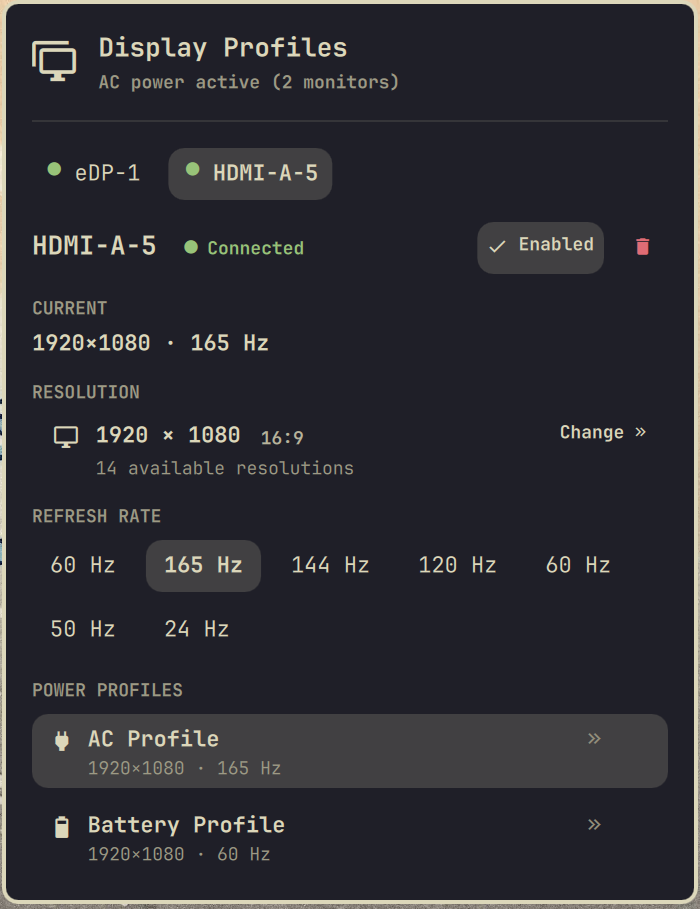
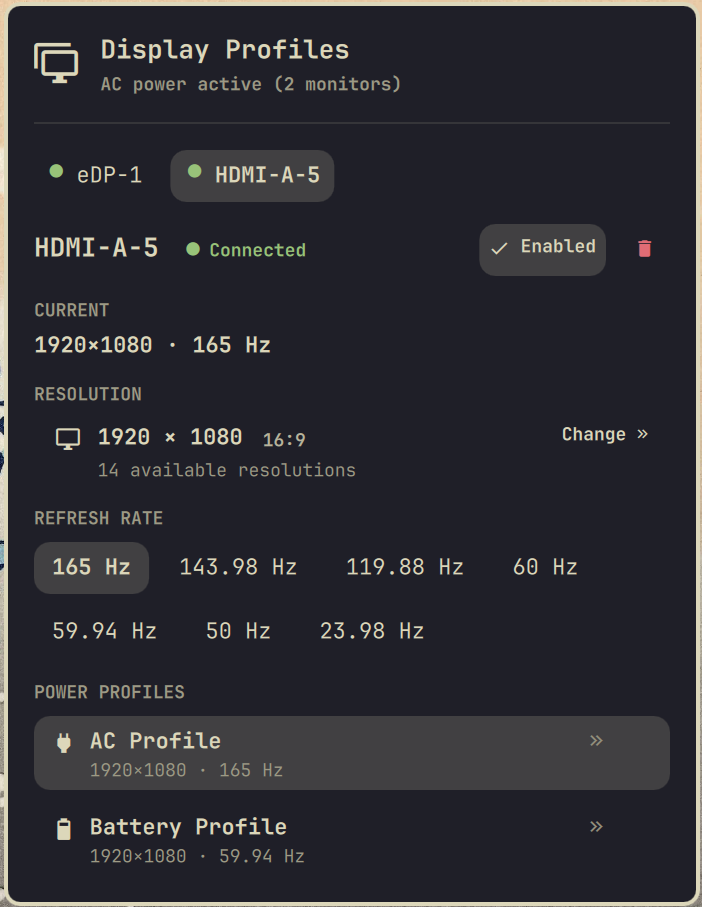
feat: show unrounded refresh rates, sort modes, and bump to v0.5.0
- Display exact unrounded refresh rates (e.g. 59.94 Hz, 143.98 Hz, 23.98 Hz)
- Sort refresh rate pills descending by frequency
- Match current mode against availableModes to normalize PLL hardware jitter
- Tighten equivalence tolerance to 0.01 to separate 59.94Hz and 60.00Hz
- Add comprehensive test coverage in test_mode_logic.js
- Update preview images and bump version to 0.5.0 in manifest and README

diff --git a/tests/test_mode_logic.js b/tests/test_mode_logic.js
@@ -25,8 +25,52 @@ function parseMode(mode) {
     return { width, height, refreshRate };
 }
 
+function formatRefreshRate(rate) {
+    var num = Number(rate);
+    if (isNaN(num)) return "";
+    if (Math.abs(num - Math.round(num)) < 0.005) {
+        num = Math.round(num);
+    } else {
+        num = Number(num.toFixed(2));
+    }
+    return num + " Hz";
+}
+
+function modesEquivalent(firstMode, secondMode) {
+    var first = parseMode(firstMode);
+    var second = parseMode(secondMode);
+    if (!first || !second) return false;
+    if (first.width !== second.width || first.height !== second.height) {
+        return false;
+    }
+    return Math.abs(first.refreshRate - second.refreshRate) < 0.01;
+}
+
 function currentMode(monitor) {
     if (!monitor) return "";
+    if (Array.isArray(monitor.availableModes) && monitor.availableModes.length > 0) {
+        var currentW = Number(monitor.width);
+        var currentH = Number(monitor.height);
+        var currentHz = Number(monitor.refreshRate);
+        var bestMode = "";
+        var bestDiff = 999999;
+
+        for (var i = 0; i < monitor.availableModes.length; i++) {
+            var p = parseMode(monitor.availableModes[i]);
+            if (!p) continue;
+            if ((p.width === currentW && p.height === currentH) ||
+                (p.width === currentH && p.height === currentW)) {
+                var diff = Math.abs(p.refreshRate - currentHz);
+                if (diff < bestDiff) {
+                    bestDiff = diff;
+                    bestMode = normalizeMode(monitor.availableModes[i]);
+                }
+            }
+        }
+        if (bestMode !== "" && bestDiff < 0.5) {
+            return bestMode;
+        }
+    }
     return normalizeMode(monitor.width + "x" + monitor.height + "@" + monitor.refreshRate);
 }
 
@@ -62,6 +106,10 @@ function modesForCurrentResolution(monitor) {
             }
         }
     }
+
+    matches.sort(function(a, b) {
+        return b.parsed.refreshRate - a.parsed.refreshRate;
+    });
 
     return matches;
 }
@@ -173,8 +221,8 @@ function availableResolutions(monitor) {
 
         var rateExists = false;
         for (var r = 0; r < map[key].refreshRates.length; r++) {
-            if (Math.abs(map[key].refreshRates[r] - parsed.refreshRate) < 0.1) {
-                rateExists = true;
+            if (Math.abs(map[key].refreshRates[r] - parsed.refreshRate) < 0.01) {
+                rateExists = true
                 break;
             }
         }
@@ -455,6 +503,82 @@ console.log("==> Running DisplayController logic tests...");
     assert.strictEqual(bat720, "1280x720@60");
 
     console.log("  ✓ Test 7: Resolution selection and profile adaptation passed");
+}
+
+// Test 8: Unrounded refresh rates, 59.94Hz vs 60.00Hz separation, and sorting
+{
+    const mon = {
+        name: "HDMI-A-5",
+        width: 1920,
+        height: 1080,
+        refreshRate: 165.00301,
+        availableModes: [
+            "1920x1080@60.00Hz",
+            "3840x2160@59.94Hz",
+            "3840x2160@29.97Hz",
+            "3840x2160@23.98Hz",
+            "1920x1080@165.00Hz",
+            "1920x1080@143.98Hz",
+            "1920x1080@119.88Hz",
+            "1920x1080@59.94Hz",
+            "1920x1080@50.00Hz",
+            "1920x1080@23.98Hz"
+        ]
+    };
+
+    // 1. Current mode canonical resolution (maps 165.00301 to 165)
+    assert.strictEqual(currentMode(mon), "1920x1080@165");
+
+    // 2. Format refresh rate tests
+    assert.strictEqual(formatRefreshRate(60), "60 Hz");
+    assert.strictEqual(formatRefreshRate(59.94), "59.94 Hz");
+    assert.strictEqual(formatRefreshRate(165), "165 Hz");
+    assert.strictEqual(formatRefreshRate(165.00301), "165 Hz");
+    assert.strictEqual(formatRefreshRate(143.98), "143.98 Hz");
+    assert.strictEqual(formatRefreshRate(119.88), "119.88 Hz");
+    assert.strictEqual(formatRefreshRate(23.98), "23.98 Hz");
+    assert.strictEqual(formatRefreshRate(50), "50 Hz");
+
+    // 3. Modes for current resolution must be sorted descending and include both 60 and 59.94
+    const curModes = modesForCurrentResolution(mon);
+    assert.strictEqual(curModes.length, 7);
+    const formattedRates = curModes.map(m => formatRefreshRate(m.parsed.refreshRate));
+    assert.deepStrictEqual(formattedRates, [
+        "165 Hz",
+        "143.98 Hz",
+        "119.88 Hz",
+        "60 Hz",
+        "59.94 Hz",
+        "50 Hz",
+        "23.98 Hz"
+    ]);
+
+    // Ensure all formatted rates are distinct - no duplicate "60 Hz" pills!
+    const uniqueFormatted = Array.from(new Set(formattedRates));
+    assert.strictEqual(uniqueFormatted.length, formattedRates.length, "All refresh rate pill labels must be unique");
+
+    // 4. Mode equivalence must strictly separate 60 from 59.94
+    assert.strictEqual(modesEquivalent("1920x1080@60", "1920x1080@59.94"), false, "60Hz and 59.94Hz must not be equivalent");
+    assert.strictEqual(modesEquivalent("1920x1080@144", "1920x1080@143.98"), false, "144Hz and 143.98Hz must not be equivalent");
+    assert.strictEqual(modesEquivalent("1920x1080@24", "1920x1080@23.98"), false, "24Hz and 23.98Hz must not be equivalent");
+
+    // But accommodate PLL clock jitter (~0.003)
+    assert.strictEqual(modesEquivalent("1920x1080@165", "1920x1080@165.00301"), true);
+    assert.strictEqual(modesEquivalent("1920x1080@165", "1920x1080@165.00200"), true);
+
+    // 5. Switching to 59.94 maps correctly
+    const mon59 = Object.assign({}, mon, { refreshRate: 59.94002 });
+    assert.strictEqual(currentMode(mon59), "1920x1080@59.94");
+
+    // 6. Available resolutions lists both 60 and 59.94
+    const resList = availableResolutions(mon);
+    const fhd = resList.find(r => r.width === 1920 && r.height === 1080);
+    assert.ok(fhd, "1080p must be found");
+    assert.strictEqual(fhd.refreshRates.length, 7);
+    assert.ok(fhd.refreshRates.includes(60));
+    assert.ok(fhd.refreshRates.includes(59.94));
+
+    console.log("  ✓ Test 8: Unrounded refresh rates, 59.94Hz vs 60.00Hz separation, and sorting passed");
 }
 
 console.log("==> All tests passed successfully!");

diff --git a/DisplayController.qml b/DisplayController.qml
@@ -163,6 +163,10 @@ Item {
             }
         }
 
+        matches.sort(function(a, b) {
+            return b.parsed.refreshRate - a.parsed.refreshRate
+        })
+
         return matches
     }
 
@@ -309,10 +313,10 @@ Item {
                 }
             }
 
-            // Avoid duplicate refresh rates (within 0.1 Hz)
+            // Avoid duplicate refresh rates (within 0.01 Hz)
             var rateExists = false
             for (var r = 0; r < map[key].refreshRates.length; r++) {
-                if (Math.abs(map[key].refreshRates[r] - parsed.refreshRate) < 0.1) {
+                if (Math.abs(map[key].refreshRates[r] - parsed.refreshRate) < 0.01) {
                     rateExists = true
                     break
                 }
@@ -505,6 +509,21 @@ Item {
         }
     }
 
+    function formatRefreshRate(rate) {
+        var num = Number(rate)
+        if (isNaN(num)) {
+            return ""
+        }
+
+        if (Math.abs(num - Math.round(num)) < 0.005) {
+            num = Math.round(num)
+        } else {
+            num = Number(num.toFixed(2))
+        }
+
+        return num + " Hz"
+    }
+
     /*
      * ---------------------------------------------------------
      * Mode comparison
@@ -539,24 +558,50 @@ Item {
 
         /*
          * Hyprland may report the active refresh rate
-         * slightly differently from availableModes.
+         * slightly differently from availableModes due to DRM/KMS
+         * hardware PLL clock jitter.
          *
          * Example:
-         *
          * available: 165.00
          * active:    165.002
          *
-         * Treat those as equivalent.
+         * A tolerance of 0.01 accommodates PLL jitter (<0.005)
+         * while strictly differentiating real NTSC drop-frame rates
+         * (e.g. 59.94 vs 60.00, 143.98 vs 144.00, 23.98 vs 24.00).
          */
         return Math.abs(
             first.refreshRate -
             second.refreshRate
-        ) < 0.1
+        ) < 0.01
     }
 
     function currentMode(monitor) {
         if (!monitor) {
             return ""
+        }
+
+        if (Array.isArray(monitor.availableModes) && monitor.availableModes.length > 0) {
+            var currentW = Number(monitor.width)
+            var currentH = Number(monitor.height)
+            var currentHz = Number(monitor.refreshRate)
+            var bestMode = ""
+            var bestDiff = 999999
+
+            for (var i = 0; i < monitor.availableModes.length; i++) {
+                var p = parseMode(monitor.availableModes[i])
+                if (!p) continue
+                if ((p.width === currentW && p.height === currentH) ||
+                    (p.width === currentH && p.height === currentW)) {
+                    var diff = Math.abs(p.refreshRate - currentHz)
+                    if (diff < bestDiff) {
+                        bestDiff = diff
+                        bestMode = normalizeMode(monitor.availableModes[i])
+                    }
+                }
+            }
+            if (bestMode !== "" && bestDiff < 0.5) {
+                return bestMode
+            }
         }
 
         return normalizeMode(

diff --git a/BarWidget.qml b/BarWidget.qml
@@ -313,7 +313,7 @@ Item {
         var normalized = displayController.normalizeMode(mode)
         var parsed = displayController.parseMode(normalized)
         if (!parsed) return mode
-        return parsed.width + "×" + parsed.height + " · " + Math.round(parsed.refreshRate) + " Hz"
+        return parsed.width + "×" + parsed.height + " · " + displayController.formatRefreshRate(parsed.refreshRate)
     }
 
     function isCurrentMode(mode) {
@@ -1181,7 +1181,7 @@ Item {
                                                 anchors.centerIn: parent
                                                 text: {
                                                     var p = displayController.parseMode(modelData)
-                                                    return p ? (Math.round(p.refreshRate) + " Hz") : modelData
+                                                    return p ? displayController.formatRefreshRate(p.refreshRate) : modelData
                                                 }
                                                 color: root.bar.foreground
                                                 font.family: root.bar.fontFamily
@@ -1629,7 +1629,7 @@ Item {
                                         }
 
                                         Text {
-                                            text: modelData.width + "×" + modelData.height + " · " + Math.round(modelData.refreshRate) + " Hz"
+                                            text: modelData.width + "×" + modelData.height + " · " + displayController.formatRefreshRate(modelData.refreshRate)
                                             color: Qt.darker(root.bar.foreground, 1.4)
                                             font.family: root.bar.fontFamily
                                             font.pixelSize: Style.font.caption
@@ -1789,7 +1789,7 @@ Item {
                                         }
 
                                         Text {
-                                            text: modelData.refreshRates.map(function(r) { return Math.round(r) + " Hz" }).join(", ")
+                                            text: modelData.refreshRates.map(function(r) { return displayController.formatRefreshRate(r) }).join(", ")
                                             color: Qt.darker(root.bar.foreground, 1.4)
                                             font.family: root.bar.fontFamily
                                             font.pixelSize: Style.font.caption

diff --git a/README.md b/README.md
@@ -5,7 +5,7 @@
 </p>
 
 <p align="center">
-  <a href="https://github.com/Hazem-Ahmed-Salem/battery-display-profiles/releases"><img src="https://img.shields.io/badge/version-0.3.0-blue.svg?style=flat-square" alt="Version 0.3.0" /></a>
+  <a href="https://github.com/Hazem-Ahmed-Salem/battery-display-profiles/releases"><img src="https://img.shields.io/badge/version-0.5.0-blue.svg?style=flat-square" alt="Version 0.5.0" /></a>
   <a href="LICENSE"><img src="https://img.shields.io/badge/license-MIT-green.svg?style=flat-square" alt="MIT License" /></a>
   <a href="https://omarchy.org"><img src="https://img.shields.io/badge/Omarchy-4%20(Quattro)-8A2BE2.svg?style=flat-square" alt="Omarchy 4 Quattro" /></a>
   <a href="https://hyprland.org"><img src="https://img.shields.io/badge/Hyprland-Native%20Lua-00bcd4.svg?style=flat-square" alt="Hyprland" /></a>
